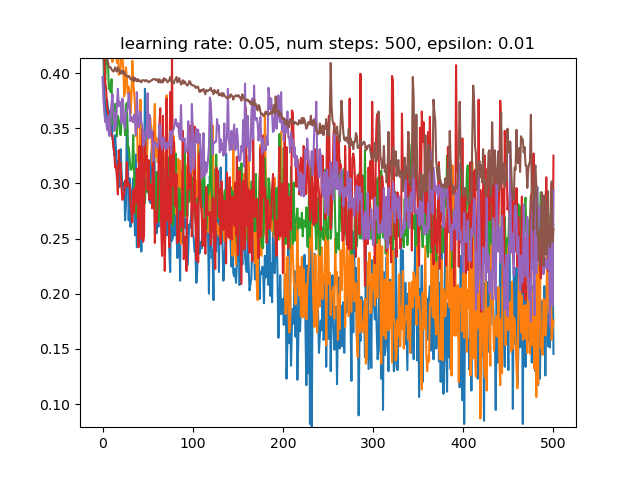
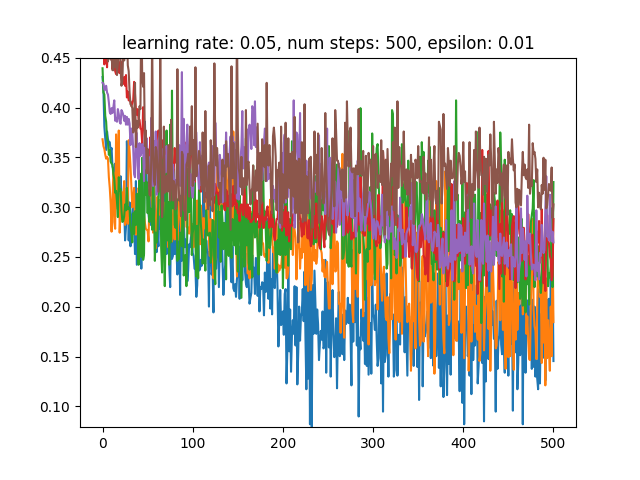
find_fractal now uses the method we used to find the fractals by hand in demo_gradients

diff --git a/src/find_fractal.py b/src/find_fractal.py
@@ -1,20 +1,37 @@
+from multiprocessing import Pool
 import numpy as np
 import numpy.typing as npt
 from PIL import Image
 from tqdm import tqdm
+from functools import partial
 
 from compute_image_interface import compute_image
 from gen_fractal import generate_fractal
-from rectangle import Rectangle, to_affine_function, rectangle_to_contiguous_affine_function, vector_to_contiguous_affine_function, vectors_to_function_system
+from rectangle import Rectangle, to_affine_function, rectangle_to_contiguous_affine_function, vector_to_contiguous_affine_function, vectors_to_function_system, vectors_to_rectangles
 from draw import draw_image, draw_points
-from gradients import gradient_descent
+from gradients import gradient_descent, parallel_gradient_descent
 
 
 N_POINTS_PER_PIXEL = 5
-DEFAULT_N_RUNS = 10
-DEFAULT_NUM_STEPS = 100
-DEFAULT_LEARNING_RATE = 1e-2
-DEFAULT_GRADIENT_APPROXIMATION_EPSILON = 1e-1
+
+N_POINTS_32 = 32 * 32 * N_POINTS_PER_PIXEL
+N_RUNS_32 = 32
+N_STEPS_32 = 2000
+LEARNING_RATE_32 = 1e-1
+GRADIENT_APPROXIMATION_EPSILON_32 = 1e-2
+
+N_RUNS_32_2 = 32
+N_STEPS_32_2 = 2000
+LEARNING_RATE_32_2 = 5e-2
+GRADIENT_APPROXIMATION_EPSILON_32_2 = 1e-2
+
+N_POINTS_64 = 64 * 64 * N_POINTS_PER_PIXEL
+N_RUNS_64 = 32
+N_STEPS_64 = 2000
+LEARNING_RATE_64 = 1e-2
+GRADIENT_APPROXIMATION_EPSILON_64 = 1e-3
+
+STD_STRAY = 1e-1
 
 
 def error(rectangles_param_vector: npt.NDArray[np.float32], target_image: npt.NDArray[np.float32], num_points: int, starting_point: npt.NDArray[np.float32], selected_indices: list[int]) -> float:
@@ -27,12 +44,42 @@ def error(rectangles_param_vector: npt.NDArray[np.float32], target_image: npt.ND
 
 
 def find_fractal(target_image: npt.NDArray[np.float32], n_rectangles: int) -> list[Rectangle]:
+    # subsample the target image
     subsampled_target_image_32 = subsample_image(target_image, 32, 32)
     subsampled_target_image_64 = subsample_image(target_image, 64, 64)
+    # figure out how we generate the fractal, with what parameters we start the gradient descent, and what noise we add between gradient descents
     np.random.seed(0)
     starting_point = np.random.rand(2)
-    selected_indices = np.random.randint(0, n_rectangles, (N_POINTS,)).astype(np.uint32)
-    optimizer_1 = lambda initial_param_vectors: gradient_descent(lambda rectangles_param_vector: error(rectangles_param_vector, subsampled_target_image_32, num_points=32 * 32 * N_POINTS_PER_PIXEL, starting_point=np.random.rand(2), selected_indices=np.random.randint(0, n_rectangles, (32 * 32 * N_POINTS_PER_PIXEL,)).astype(np.uint32)), initial_param_vectors, learning_rate=DEFAULT_LEARNING_RATE, num_steps=DEFAULT_NUM_STEPS, gradient_approximation_epsilon=DEFAULT_GRADIENT_APPROXIMATION_EPSILON)
+    selected_indices_32 = np.random.randint(0, n_rectangles, (N_POINTS_32,)).astype(np.uint32)
+    selected_indices_64 = np.random.randint(0, n_rectangles, (N_POINTS_64,)).astype(np.uint32)
+    param_vector_size = 5 * n_rectangles
+    initial_param_vectors_array = np.random.uniform(0, 1, N_RUNS_32 * param_vector_size).reshape((N_RUNS_32, param_vector_size)).astype(np.float32)
+    noise_32_2 = np.random.normal(0, STD_STRAY, N_RUNS_32_2 * param_vector_size).reshape((N_RUNS_32_2, param_vector_size)).astype(np.float32)
+    noise_64 = np.random.normal(0, STD_STRAY, N_RUNS_64 * param_vector_size).reshape((N_RUNS_64, param_vector_size)).astype(np.float32)
+    # prepare tqdm
+    progress_bar = tqdm(total=3, desc="Stage 1: 32x32", leave=False)
+    # do gradient descent on the subsampled 32x32 image
+    args_32 = [initial_param_vectors_array[i] for i in range(N_RUNS_32)]
+    objective_function_32 = partial(error, target_image=subsampled_target_image_32, num_points=N_POINTS_32, starting_point=starting_point, selected_indices=selected_indices_32)
+    result_param_vectors_32, _, _ = parallel_gradient_descent(objective_function_32, args_32, learning_rate=LEARNING_RATE_32, num_steps=N_STEPS_32, gradient_approximation_epsilon=GRADIENT_APPROXIMATION_EPSILON_32)
+    progress_bar.update()
+    progress_bar.set_description("Stage 2: 32x32 finer")
+    # do it again, starting with the best parameters from the last descent + noise, and with finer learning rate
+    best_param_vector_32 = result_param_vectors_32[0]
+    initial_param_vectors_32_2 = np.clip(noise_32_2 + best_param_vector_32, 0, 1).astype(np.float32)
+    args_32_2 = [initial_param_vectors_32_2[i] for i in range(N_RUNS_32)]
+    result_param_vectors_32_2, _, _ = parallel_gradient_descent(objective_function_32, args_32_2, learning_rate=LEARNING_RATE_32_2, num_steps=N_STEPS_32_2, gradient_approximation_epsilon=GRADIENT_APPROXIMATION_EPSILON_32_2)
+    progress_bar.update()
+    progress_bar.set_description("Stage 3: 64x64")
+    # do it again on 64x64, starting with the best parameters from the last descent + noise, and with finer learning rate and better gradient approximation
+    best_param_vector_32_2 = result_param_vectors_32_2[0]
+    initial_param_vectors_64 = (noise_64 + best_param_vector_32_2).clip(0, 1)
+    args_64 = [initial_param_vectors_64[i] for i in range(N_RUNS_64)]
+    objective_function_64 = partial(error, target_image=subsampled_target_image_64, num_points=N_POINTS_64, starting_point=starting_point, selected_indices=selected_indices_64)
+    result_param_vectors_64, _, _ = parallel_gradient_descent(objective_function_64, args_64, learning_rate=LEARNING_RATE_64, num_steps=N_STEPS_64, gradient_approximation_epsilon=GRADIENT_APPROXIMATION_EPSILON_64)
+    progress_bar.close()
+    # return the best parameters found
+    return vectors_to_rectangles(result_param_vectors_64[0])
 
 
 def subsample_image(image: npt.NDArray[np.float32], sub_image_width: int, sub_image_height: int) -> npt.NDArray[np.float32]:
@@ -44,17 +91,14 @@ def subsample_image(image: npt.NDArray[np.float32], sub_image_width: int, sub_im
 
 
 def main():
-    target_file = "images/sierpinski_small.png"
+    target_file = "images/sierpinski.png"
     target_image = Image.open(target_file).convert('L')
     target_image = np.array(target_image).astype(np.float32) / 255
     rectangles = find_fractal(target_image, 3)
-    function_system = np.stack([rectangle_to_contiguous_affine_function(rectangle) for rectangle in rectangles])
+    print(rectangles)
+    function_system = np.concatenate([rectangle_to_contiguous_affine_function(rectangle) for rectangle in rectangles])
     points = generate_fractal(function_system, seed=0, num_points=1_000_000)
     draw_points(points, image_width=target_image.shape[1], image_height=target_image.shape[0], file_path="images/found.png")
-    # target = Image.open(target_file).convert('L')
-    # target = np.array(target).astype(np.float32) / 255
-    # subsampled_image = subsample_image(target, 16, 16)
-    # draw_image(subsampled_image, "images/sierpinski_subsampled.png")
 
 
 if __name__ == "__main__":

diff --git a/src/demo_gradients.py b/src/demo_gradients.py
@@ -1,3 +1,4 @@
+from functools import partial
 from multiprocessing import Pool
 
 import matplotlib.pyplot as plt
@@ -10,7 +11,7 @@ from compute_image_interface import compute_image
 from draw import draw_image, draw_points
 from find_fractal import subsample_image
 from gen_fractal import generate_fractal
-from gradients import gradient_descent, gradient_descent_2, greedy_descent, greedy_descent_2
+from gradients import gradient_descent, gradient_descent_2, greedy_descent, greedy_descent_2, parallel_gradient_descent
 from rectangle import Rectangle, rectangles_to_function_system, rectangle_to_contiguous_affine_function, rectangles_to_vector, vectors_to_function_system, vectors_to_rectangles
 from find_fractal import error
 
@@ -38,7 +39,6 @@ STD_STRAY = 1e-1
 N_POINTS = 5 * SUBSAMPLE_SIZE * SUBSAMPLE_SIZE
 
 
-
 # read a grayscale image
 target_image = Image.open("images/sierpinski.png").convert('L')
 target_image = np.array(target_image).astype(np.float32) / 255
@@ -61,41 +61,11 @@ initial_param_vectors = np.random.uniform(0, 1, N_RUNS * param_vector_size).resh
 # initial_param_vectors = (np.random.normal(0, STD_STRAY, N_RUNS * param_vector_size).reshape((N_RUNS, param_vector_size)).astype(np.float32) + old_top_vector).clip(0, 1)
 
 # optimize
-
-
-def gradient_descent_wrapper(initial_param_vector, show_progress):
-    return gradient_descent(objective_function, initial_param_vector, learning_rate=LEARNING_RATE, num_steps=NUM_STEPS, gradient_approximation_epsilon=GRADIENT_APPROXIMATION_EPSILON, show_progress=show_progress)
-
-
-def gradient_descent_2_wrapper(initial_param_vector, show_progress):
-    return gradient_descent_2(objective_function, initial_param_vector, initial_step_size=INITIAL_STEP_SIZE, max_step_size_tries=MAX_STEP_SIZE_TRIES, step_size_decrease=STEP_SIZE_DECREASE, expected_gradient_gain=EXPECTED_GRADIENT_GAIN, num_steps=NUM_STEPS, gradient_approximation_epsilon=GRADIENT_APPROXIMATION_EPSILON, show_progress=show_progress)
-
-
-def greedy_descent_wrapper(initial_param_vector, show_progress):
-    return greedy_descent(objective_function, initial_param_vector, num_steps=NUM_STEPS, step_size=GREEDY_STEP_SIZE, show_progress=show_progress)
-
-
-def greedy_descent_2_wrapper(initial_param_vector, show_progress):
-    return greedy_descent_2(objective_function, initial_param_vector, num_steps=NUM_STEPS, step_size=GREEDY_STEP_SIZE, show_progress=show_progress)
-
-
-optimization_methods = {
-    "gradient_descent": gradient_descent_wrapper,
-    "gradient_descent_2": gradient_descent_2_wrapper,
-    "greedy_descent": greedy_descent_wrapper,
-    "greedy_descent_2": greedy_descent_2_wrapper
-}
-pool = Pool()
-args = [(initial_param_vector, i == 0) for i, initial_param_vector in enumerate(initial_param_vectors)]
-results = pool.starmap(optimization_methods[USED_METHOD], args)
-# results = [optimization_methods[USED_METHOD](initial_function_system, True) for i, initial_function_system in enumerate(initial_function_systems)]
-param_vectors, error_courses = zip(*results)
+args = [initial_param_vectors[i] for i in range(N_RUNS)]
+objective_function = partial(error, target_image=subsampled_target_image, num_points=N_POINTS, starting_point=starting_point, selected_indices=selected_indices)
+param_vectors, error_courses, scores = parallel_gradient_descent(objective_function, args, learning_rate=LEARNING_RATE, num_steps=NUM_STEPS, gradient_approximation_epsilon=GRADIENT_APPROXIMATION_EPSILON)
 # see what we optimized
-scores = [objective_function(param_vector) for param_vector in param_vectors]
-ranks = np.argsort(scores)
-param_vectors_sorted = [param_vectors[i] for i in ranks]
-scores_sorted = [scores[i] for i in ranks]
-for rank, (score, param_vector) in enumerate(zip(scores_sorted, param_vectors_sorted), 1):
+for rank, (score, param_vector) in enumerate(zip(scores, param_vectors), 1):
     print(f"Top {rank} score: {score}, rectangles: {vectors_to_rectangles(param_vector)}")
 # plot the errors
 plotted_courses = error_courses[::4]
@@ -115,7 +85,7 @@ plt.savefig(f"images/{USED_METHOD}_sierpinski_small_error_n_runs_{N_RUNS}_lr_{LE
 #     draw_image(image, f"images/sierpinski_{subsampled_target_image.shape[0]}x{subsampled_target_image.shape[1]}_small_reconstructed_top_{rank}.png")
 
 # draw the best result in the subsampled resolution
-best_param_vector = param_vectors_sorted[0]
+best_param_vector = param_vectors[0]
 function_system = vectors_to_function_system(best_param_vector)
 points = generate_fractal(function_system, num_points=N_POINTS, starting_point=starting_point, selected_indices=selected_indices)
 draw_points(points, image_width=subsampled_target_image.shape[1], image_height=subsampled_target_image.shape[0], file_path=f"images/sierpinski_reconstructed_small_{SUBSAMPLE_SIZE}x{SUBSAMPLE_SIZE}.png")

diff --git a/src/gradients.py b/src/gradients.py
@@ -1,3 +1,5 @@
+from functools import partial
+from multiprocessing import Pool
 import numpy as np
 import numpy.typing as npt
 
@@ -23,7 +25,7 @@ def gradient_approximation(f: Callable, x: npt.NDArray[np.float32], epsilon: flo
     return gradient
 
 
-def gradient_descent(f: Callable, x_start: npt.NDArray[np.float32], learning_rate: float = 1e-2, num_steps: int = 100, gradient_approximation_epsilon: float = 1e-2, show_progress: bool = False) -> npt.NDArray[np.float32]:
+def gradient_descent(f: Callable, x_start: npt.NDArray[np.float32], learning_rate: float = 1e-2, num_steps: int = 100, gradient_approximation_epsilon: float = 1e-2, show_progress: bool = False) -> tuple[npt.NDArray[np.float32], list[float]]:
     """Perform gradient descent on a scalar function f starting at x_start."""
 
     x = x_start.copy()
@@ -112,3 +114,17 @@ def greedy_descent_2(f: Callable, x_start: npt.NDArray[np.float32], num_steps: i
         x = options[best_option]
         errors.append(f(x))
     return x, errors
+
+
+def parallel_gradient_descent(f: Callable, x_starts: list[npt.NDArray[np.float32]], learning_rate: float = 1e-2, num_steps: int = 100, gradient_approximation_epsilon: float = 1e-2, show_progress: bool = False) -> tuple[list[npt.NDArray[np.float32]], list[list[float]], list[float]]:
+    """Does gradient descent on multiple initial points in parallel. Returns a list with the best parameter vectors found and their respective error cources. The list is sorted with the objective function. Also returns the sorted error courses, and the errors of the best parameter vectors."""
+    pool = Pool()
+    gradient_descent_partial = partial(gradient_descent, f, learning_rate=learning_rate, num_steps=num_steps, gradient_approximation_epsilon=gradient_approximation_epsilon, show_progress=show_progress)
+    results = pool.map(gradient_descent_partial, x_starts)
+    param_vectors, error_courses = zip(*results)
+    errors = [f(param_vector) for param_vector in param_vectors]
+    ranks = np.argsort(errors)
+    param_vectors_sorted = [param_vectors[i] for i in ranks]
+    error_courses_sorted = [error_courses[i] for i in ranks]
+    errors_sorted = [errors[i] for i in ranks]
+    return param_vectors_sorted, error_courses_sorted, errors_sorted

diff --git a/src/gen_fractal.py b/src/gen_fractal.py
@@ -15,7 +15,7 @@ def generate_fractal(function_system: npt.NDArray[np.float32], num_points: int =
     Parameters
     ----------
     function_system : list[tuple[Tensor, Tensor]]
-        The iterative function system that defines the fractal.
+        The iterative function system that defines the fractal. Shape: (n_rectangles * 6,).
     num_points : int, optional
         Number of points generated, by default 1000
     starting_point : Tensor, optional
